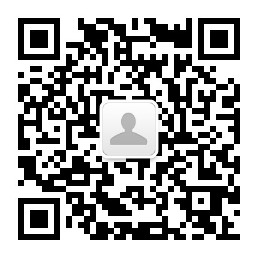
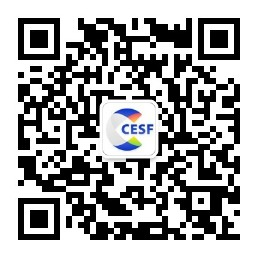
20201102 CHU

Changed region(s): [[0.4031, 0.4031, 0.5891, 0.6202]]

diff --git a/guns-base-support/guns-sys/src/main/webapp/pages/common/_nav.html b/guns-base-support/guns-sys/src/main/webapp/pages/common/_nav.html
@@ -19,7 +19,8 @@
             <a href="/" class="fontSize18 item" target="_blank">首页</a>
         </div>
         <div class="inlineBlock">
-            <a class="fontSize18 item" target="_blank">关于论坛</a>
+            <a href="${ctxPath}/meetMember/add" class="fontSize18 item" target="_blank">会议注册</a>
+            <!--<a class="fontSize18 item" target="_blank">关于论坛</a>
             <div class="childNav pa fontSize16 hide">
                 <div class="childNav-items inlineBlock">
                     <a href="http://cesf.nies.net.cn:8080/pub/lt_new_6/gylt/ltjj/" target="_blank">论坛简介</a>
@@ -28,19 +29,21 @@
                     <a href="http://cesf.nies.net.cn:8080/pub/lt_new_6/gylt/gwt/" target="_blank">顾问团</a>
                     <a href="http://cesf.nies.net.cn:8080/pub/lt_new_6/gylt/zzjg/" target="_blank">组织架构</a>
                 </div>
-            </div>
+            </div>-->
         </div>
         <div class="inlineBlock">
-            <a class="fontSize18 item" target="_blank">论坛活动</a>
+            <a href="${ctxPath}/greatResult/add" class="fontSize18 item" target="_blank">优秀成果会展申请</a>
+            <!--<a class="fontSize18 item" target="_blank">论坛活动</a>
             <div class="childNav pa fontSize16 hide">
                 <div class="childNav-items inlineBlock">
                     <a href="http://cesf.nies.net.cn:8080/pub/lt_new_6/lthd/zxhy/" target="_blank">最新会议</a>
                     <a href="http://cesf.nies.net.cn:8080/pub/lt_new_6/lthd/lnhy/" target="_blank">历年论坛</a>
                 </div>
-            </div>
+            </div>-->
         </div>
         <div>
-            <a class="fontSize18 item" target="_blank">论坛之声</a>
+            <a href="${ctxPath}/collectTopic/add" class="fontSize18 item" target="_blank">主题征集</a>
+            <!--<a class="fontSize18 item" target="_blank">论坛之声</a>
             <div class="childNav pa fontSize16 hide">
                 <div class="childNav-items inlineBlock">
                     <a href="http://cesf.nies.net.cn:8080/pub/lt_new_6/ltzs/chjb/" target="_blank">参会嘉宾</a>
@@ -48,10 +51,11 @@
                     <a href="http://cesf.nies.net.cn:8080/pub/lt_new_6/ltzs/qnzs/" target="_blank">青年之声</a>
                     <a href="http://cesf.nies.net.cn:8080/pub/lt_new_6/ltzs/kyzx/" target="_blank">科研战线</a>
                 </div>
-            </div>
+            </div>-->
         </div>
         <div>
-            <a class="fontSize18 item" target="_blank">论坛成果</a>
+            <a href="${ctxPath}/holdForum/add" class="fontSize18 item" target="_blank">论坛申报</a>
+            <!--<a class="fontSize18 item" target="_blank">论坛成果</a>
             <div class="childNav pa fontSize16 hide">
                 <div class="childNav-items inlineBlock">
                     <a href="http://cesf.nies.net.cn:8080/pub/lt_new_6/ltcg/yxlwj/" target="_blank">优秀论文集</a>
@@ -60,18 +64,21 @@
                     <a href="http://cesf.nies.net.cn:8080/pub/lt_new_6/ltcg/zcbg/" target="_blank">政策报告</a>
                     <a href="http://cesf.nies.net.cn:8080/pub/lt_new_6/ltcg/jgsy/" target="_blank">教改实验</a>
                 </div>
-            </div>
+            </div>-->
         </div>
         <div>
-            <a class="fontSize18 item" target="_blank">国内外会议信息</a>
+            <a href="${ctxPath}/socialForum/add" class="fontSize18 item" target="_blank">赞助意向</a>
+            <!--<a class="fontSize18 item" target="_blank">国内外会议信息</a>
             <div class="childNav pa fontSize16 hide">
                 <div class="childNav-items inlineBlock">
                     <a href="http://cesf.nies.net.cn:8080/pub/lt_new_6/gnwhyxx/gnhy/" target="_blank">国内会议</a>
                     <a href="http://cesf.nies.net.cn:8080/pub/lt_new_6/gnwhyxx/gjhy/" target="_blank">国际会议</a>
                 </div>
-            </div>
+            </div>-->
         </div>
-        <div><a href="http://cesf.nies.net.cn:8080/pub/lt_new_6/lxwm/" class="fontSize18 item" target="_blank">联系我们</a></div>
+        <!--<div>
+            <a href="http://cesf.nies.net.cn:8080/pub/lt_new_6/lxwm/" class="fontSize18 item" target="_blank">联系我们</a>
+        </div>-->
     </nav>
 </div>
 <div class="mobile" style="overflow:hidden;width:100%;">

diff --git a/guns-vip-main/src/main/webapp/assets/meetMember/meetMember_add.js b/guns-vip-main/src/main/webapp/assets/meetMember/meetMember_add.js
@@ -248,15 +248,25 @@ layui.use(['layer', 'form', 'admin', 'ax','laydate','upload','formSelects'], fun
         , accept: 'file'
         , before: function (obj) {
             obj.preview(function (index, file, result) {
-                $("#fileNameTip").val(file.name);
-                $("#fileNameTip").html(file.name);
+                var fileName = file.name;
+                var fileType = fileName.substr(fileName.lastIndexOf("."));
+                if(fileType.compare(".pdf")){
+                    $("#fileNameTip").val(file.name);
+                    $("#fileNameTip").html(file.name);
+                }
+
             });
         }
         , done: function (res) {
-            $("#fileInputHidden").val(res.data.fileId);
-            $("#thesisPath").val(res.data.path);
-            $("#fileName").val($("#fileNameTip").val());
-            Feng.success(res.message);
+            var type = res.data.type;
+            if(type != ".pdf"){
+                Feng.error("上传失败，文件格式不匹配");
+            }else {
+                $("#fileInputHidden").val(res.data.fileId);
+                $("#thesisPath").val(res.data.path);
+                $("#fileName").val($("#fileNameTip").val());
+                Feng.success(res.message);
+            }
         }
         , error: function () {
             Feng.error("上传文件失败！");

diff --git a/guns-base-support/guns-sys/src/main/webapp/pages/common/_container.html b/guns-base-support/guns-sys/src/main/webapp/pages/common/_container.html
@@ -16,6 +16,7 @@
     <meta charset="utf-8"/>
     <meta http-equiv="X-UA-Compatible" content="IE=edge,chrome=1">
     <meta name="viewport" content="width=device-width, initial-scale=1, maximum-scale=1">
+    <link href="${ctxPath}/assets/common/images/icon2_10.png" rel="icon">
     <link rel="stylesheet" href="${ctxPath}/assets/common/libs/layui/css/layui.css?v=${constants.getReleaseVersion()}"/>
     <link rel="stylesheet" href="${ctxPath}/assets/common/module/admin.css?v=${constants.getReleaseVersion()}" media="all"/>
     <link rel="stylesheet" href="${ctxPath}/assets/expand/css/style.css?v=${constants.getReleaseVersion()}" media="all"/>

diff --git a/guns-base-support/guns-sys/src/main/webapp/pages/index.html b/guns-base-support/guns-sys/src/main/webapp/pages/index.html
@@ -5,7 +5,7 @@
     <meta charset="utf-8"/>
     <meta http-equiv="X-UA-Compatible" content="IE=edge,chrome=1">
     <meta name="viewport" content="width=device-width, initial-scale=1, maximum-scale=1">
-    <link href="${ctxPath}/assets/expand/images/favicon.ico" rel="icon">
+    <link href="${ctxPath}/assets/common/images/icon2_10.png" rel="icon">
     <title>${constants.getSystemName()}</title>
     <link rel="stylesheet" href="${ctxPath}/assets/common/libs/layui/css/layui.css?v=${constants.getReleaseVersion()}"/>
     <link rel="stylesheet" href="${ctxPath}/assets/common/module/admin.css?v=${constants.getReleaseVersion()}"/>

diff --git a/guns-vip-main/src/main/webapp/pages/webIndex.html b/guns-vip-main/src/main/webapp/pages/webIndex.html
@@ -6,6 +6,7 @@
     <meta name="renderer" content="webkit" />
     <meta name ="viewport" content ="width=device-width,initial-scale=1.0, maximum-scale=1.0, minimum-scale=1.0, user-scalable=0">
     <title>中国教育科学论坛</title>
+    <link href="${ctxPath}/assets/common/images/icon2_10.png" rel="icon">
     <link rel="stylesheet" href="${ctxPath}/assets/common/css/swiper.min.css" />
     <link rel="stylesheet" href="${ctxPath}/assets/common/css/common.css" />
     <link rel="stylesheet" href="${ctxPath}/assets/common/css/border-1px.css" />

diff --git a/guns-vip-main/src/main/webapp/pages/social.html b/guns-vip-main/src/main/webapp/pages/social.html
@@ -6,6 +6,7 @@
     <meta name="renderer" content="webkit" />
     <meta name ="viewport" content ="width=device-width,initial-scale=1, maximum-scale=1, minimum-scale=1, user-scalable=no">
     <title>赞助意向</title>
+    <link href="${ctxPath}/assets/common/images/icon2_10.png" rel="icon">
     <link rel="stylesheet" href="${ctxPath}/assets/common/css/swiper.min.css" />
     <link rel="stylesheet" href="${ctxPath}/assets/common/css/common.css" />
     <link rel="stylesheet" href="${ctxPath}/assets/common/css/border-1px.css" />

diff --git a/guns-vip-main/src/main/webapp/pages/meet_reg.html b/guns-vip-main/src/main/webapp/pages/meet_reg.html
@@ -6,6 +6,7 @@
 	<meta name="renderer" content="webkit" />
 	<meta name ="viewport" content ="width=device-width,initial-scale=1, maximum-scale=1, minimum-scale=1, user-scalable=no">
 	<title>会议注册</title>
+	<link href="${ctxPath}/assets/common/images/icon2_10.png" rel="icon">
 	<link rel="stylesheet" href="${ctxPath}/assets/common/css/swiper.min.css" />
 	<!--<link rel="stylesheet" href="${ctxPath}/assets/modular/frame/user_info.css" />-->
 	<link rel="stylesheet" href="${ctxPath}/assets/common/css/common.css" />

diff --git a/guns-vip-main/src/main/webapp/pages/collect.html b/guns-vip-main/src/main/webapp/pages/collect.html
@@ -6,6 +6,7 @@
 	<meta name="renderer" content="webkit" />
 	<meta name ="viewport" content ="width=device-width,initial-scale=1, maximum-scale=1, minimum-scale=1, user-scalable=no">
 	<title>会议主题征集</title>
+	<link href="${ctxPath}/assets/common/images/icon2_10.png" rel="icon">
 	<link rel="stylesheet" href="${ctxPath}/assets/common/css/swiper.min.css" />
 	<link rel="stylesheet" href="${ctxPath}/assets/common/css/common.css" />
 	<link rel="stylesheet" href="${ctxPath}/assets/common/css/border-1px.css" />

diff --git a/guns-vip-main/src/main/webapp/pages/result.html b/guns-vip-main/src/main/webapp/pages/result.html
@@ -6,6 +6,7 @@
 	<meta name="renderer" content="webkit" />
 	<meta name ="viewport" content ="width=device-width,initial-scale=1, maximum-scale=1, minimum-scale=1, user-scalable=no">
 	<title>成果会展申请</title>
+	<link href="${ctxPath}/assets/common/images/icon2_10.png" rel="icon">
 	<link rel="stylesheet" href="${ctxPath}/assets/common/css/swiper.min.css" />
 	<link rel="stylesheet" href="${ctxPath}/assets/common/css/common.css" />
 	<link rel="stylesheet" href="${ctxPath}/assets/common/css/border-1px.css" />

diff --git a/guns-vip-main/src/main/webapp/pages/forum.html b/guns-vip-main/src/main/webapp/pages/forum.html
@@ -6,6 +6,7 @@
 	<meta name="renderer" content="webkit" />
 	<meta name ="viewport" content ="width=device-width,initial-scale=1, maximum-scale=1, minimum-scale=1, user-scalable=no">
 	<title>论坛申报</title>
+	<link href="${ctxPath}/assets/common/images/icon2_10.png" rel="icon">
 	<link rel="stylesheet" href="${ctxPath}/assets/common/css/swiper.min.css" />
 	<link rel="stylesheet" href="${ctxPath}/assets/common/css/common.css" />
 	<link rel="stylesheet" href="${ctxPath}/assets/common/css/border-1px.css" />

diff --git a/guns-base-support/guns-sys/src/main/webapp/pages/modular/frame/person_center.html b/guns-base-support/guns-sys/src/main/webapp/pages/modular/frame/person_center.html
@@ -1,5 +1,6 @@
 <!doctype html>
 <html>
+<link href="${ctxPath}/assets/common/images/icon2_10.png" rel="icon">
 <link rel="stylesheet" href="${ctxPath}/assets/common/layuiadmin/layui/css/layui.css" media="all">
 <link rel="stylesheet" href="${ctxPath}/assets/common/layuiadmin/style/admin.css" media="all">
 <style>

diff --git a/guns-vip-main/src/main/webapp/pages/weiXin/weiXinLogin.html b/guns-vip-main/src/main/webapp/pages/weiXin/weiXinLogin.html
@@ -25,7 +25,7 @@
             alert("报到成功！")
         } else if ("${checkIn! }" == "signSuccess"){
             alert("签到成功！")
-        } else {
+        } else if ("${checkIn! }" == "error"){
             alert("报到签到失败！")
         }
     }
